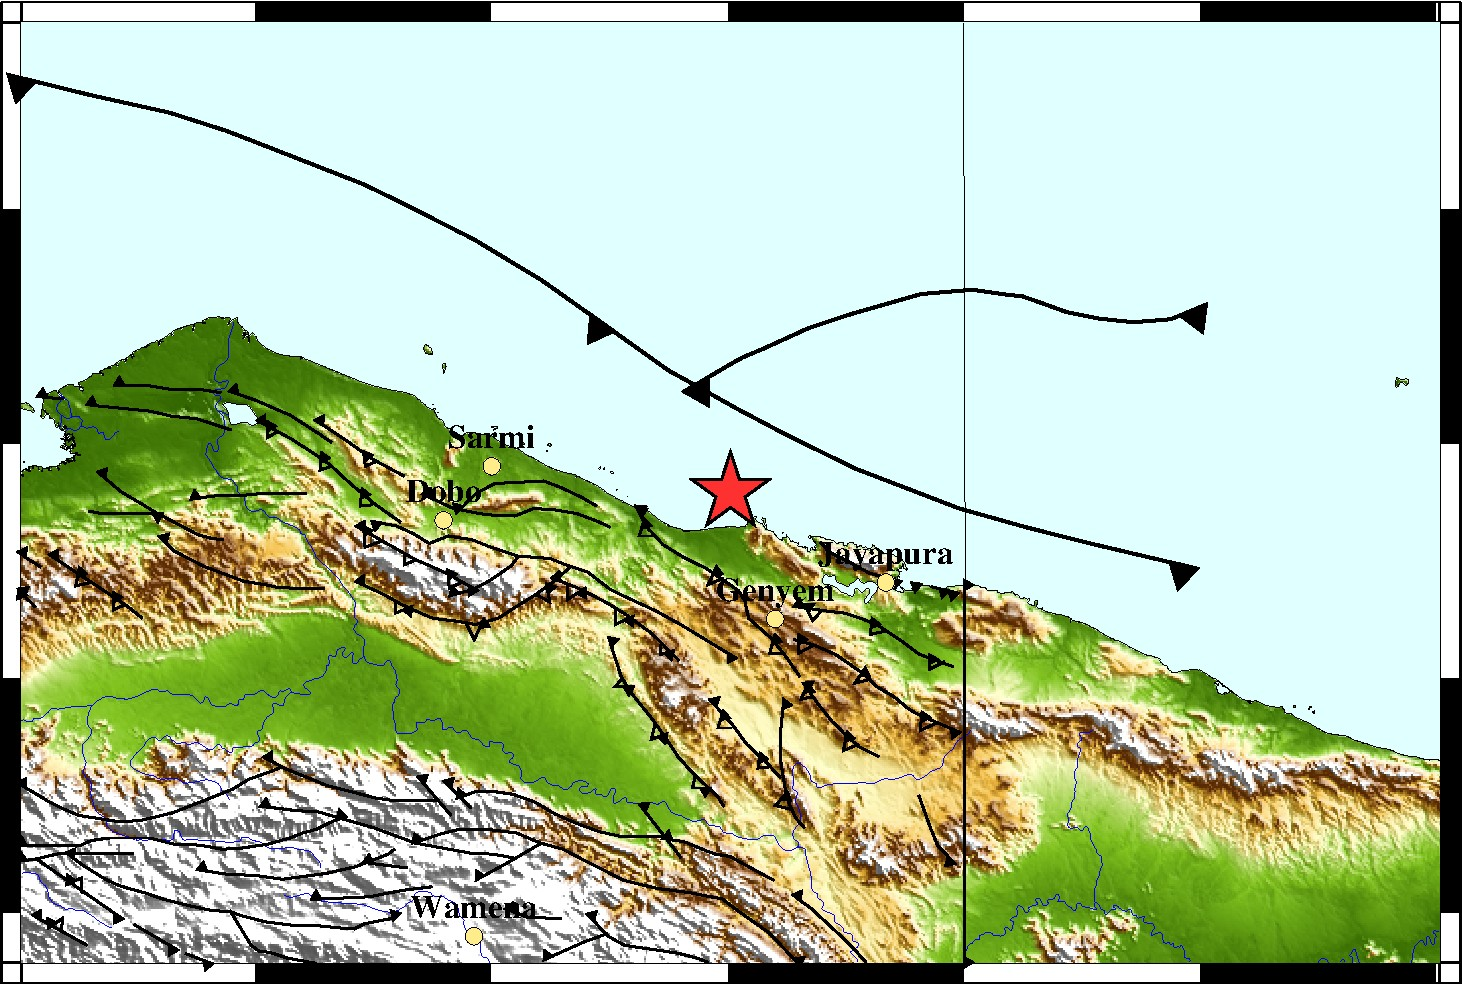
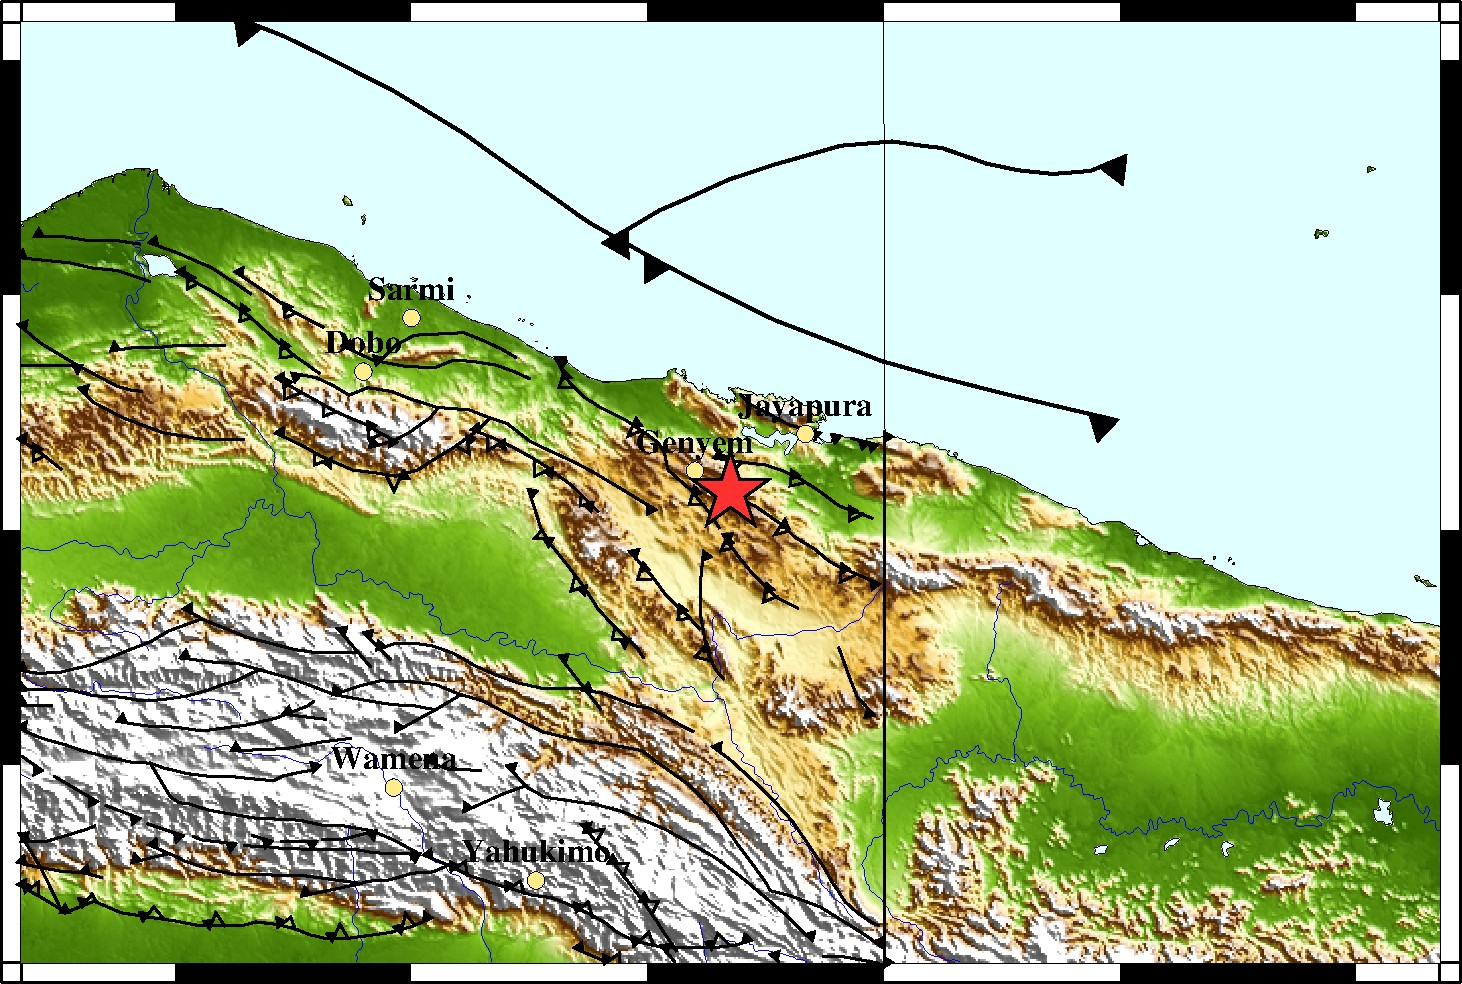
create api gempa

diff --git a/app/Http/Controllers/Admin/InfogempaCrudController.php b/app/Http/Controllers/Admin/InfogempaCrudController.php
@@ -147,19 +147,19 @@ class InfogempaCrudController extends CrudController
     public function peta($id)
     {   
         $event = Infogempa::find($id);
-        // $lintang = $event['lintang'];
-        // $bujur = $event['bujur'];
-        // $file = fopen("/home/suadmin/gmt1/event.gmt","w");
-        // $koordinat = $event['bujur']." ".$event['lintang']." ".$id;
+        $lintang = $event['lintang']; //ngambil lintang untuk peta gmt
+        $bujur = $event['bujur'];//ngambil bujur untuk peta gmt
+        $file = fopen("/home/suadmin/gmt1/event.gmt","w"); //nulis peta gmt
+        $koordinat = $event['bujur']." ".$event['lintang']." ".$id;
         $lat = $event['lintang'];
         $lon = $event['bujur'];
-        // fwrite($file,$koordinat);
+        fwrite($file,$koordinat);
         // fclose($file);
         $sms = $event['sms'];
         // $sms = str_replace('WITA','WIT',$sms);
         // $sms = str_replace('BMKG','BMKG-JAY',$sms);
         // $sms = str_replace('SR','',$sms);
-        //echo exec('cd /home/suadmin/gmt1 && ./autoepic.sh'); 
+        echo exec('cd /home/suadmin/gmt1 && ./autoepic.sh'); 
         return view('gempa.infogempa')->with(compact('sms', 'lat', 'lon'));
     }
 }

diff --git a/app/Http/Controllers/HomeController.php b/app/Http/Controllers/HomeController.php
@@ -13,6 +13,7 @@ use App\Models\Summary;
 use App\Models\Kindek;
 use App\Models\Deklinasi;
 use App\Models\Inklinasi;
+use App\Models\Infogempa;
 
 class HomeController extends Controller
 {
@@ -39,6 +40,15 @@ class HomeController extends Controller
         ];
 
     	return view('welcome')->with(compact('datas'));
+	}
+
+	public function apigempa() {
+		$gempa = Gempa::latest()->first();
+		return response()->json($gempa);
+	}
+	public function apisms() {
+		$sms = Infogempa::latest()->first();
+		return response()->json($sms);
 	}
 
 }

diff --git a/routes/web.php b/routes/web.php
@@ -13,6 +13,6 @@
 
 Route::get('/', 'HomeController@index');
 Route::get('/admin/dashboard', 'DashboardController@index');
-Route::resource('/guests', 'GuestController');
-//cari tamu
-Route::any( '/guests/search', 'GuestController@search');
+//api
+Route::get('/api/gempa', 'HomeController@apigempa');
+Route::get('/api/sms', 'HomeController@apisms');
